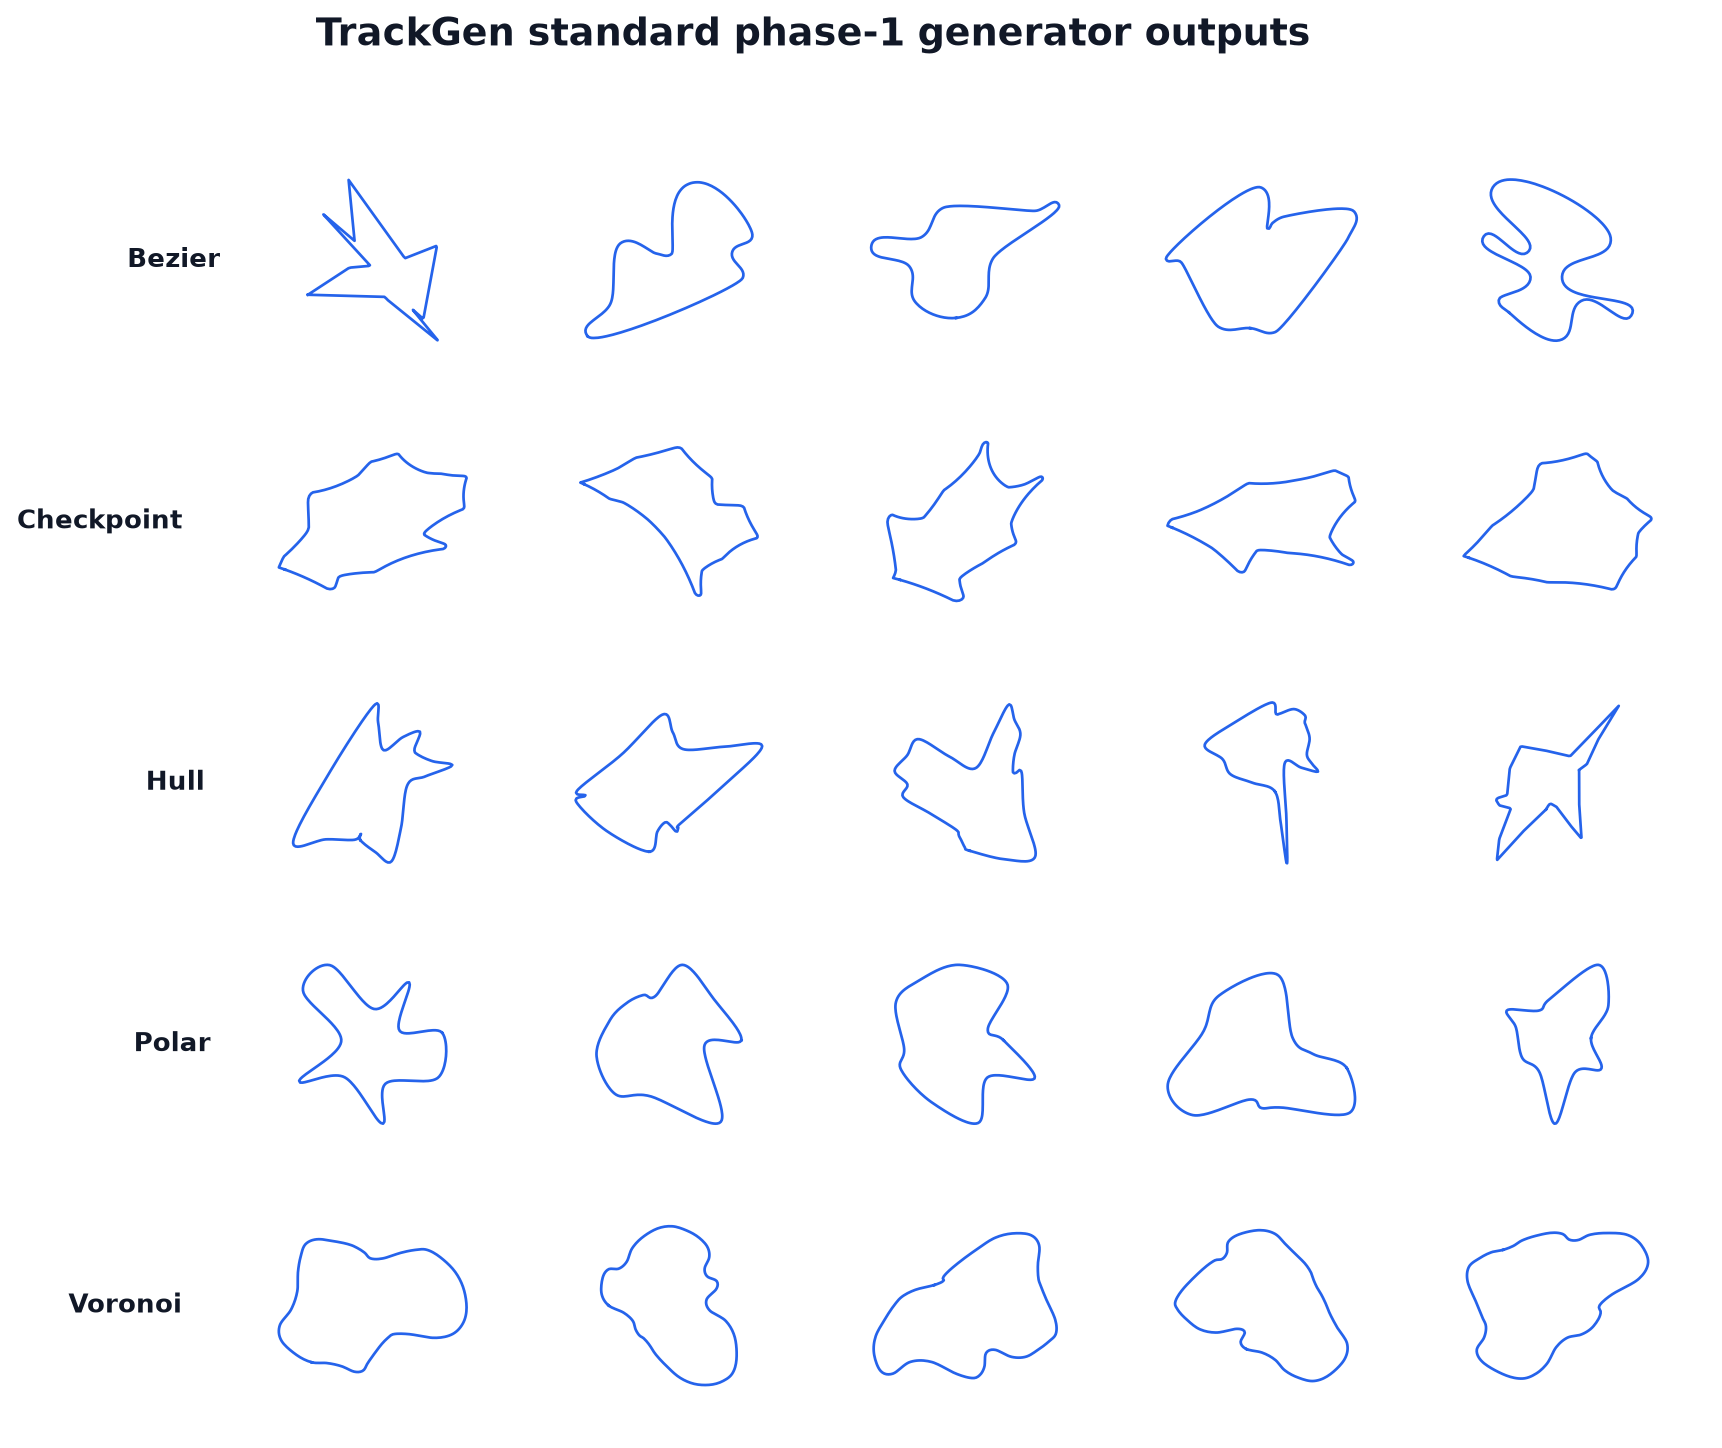
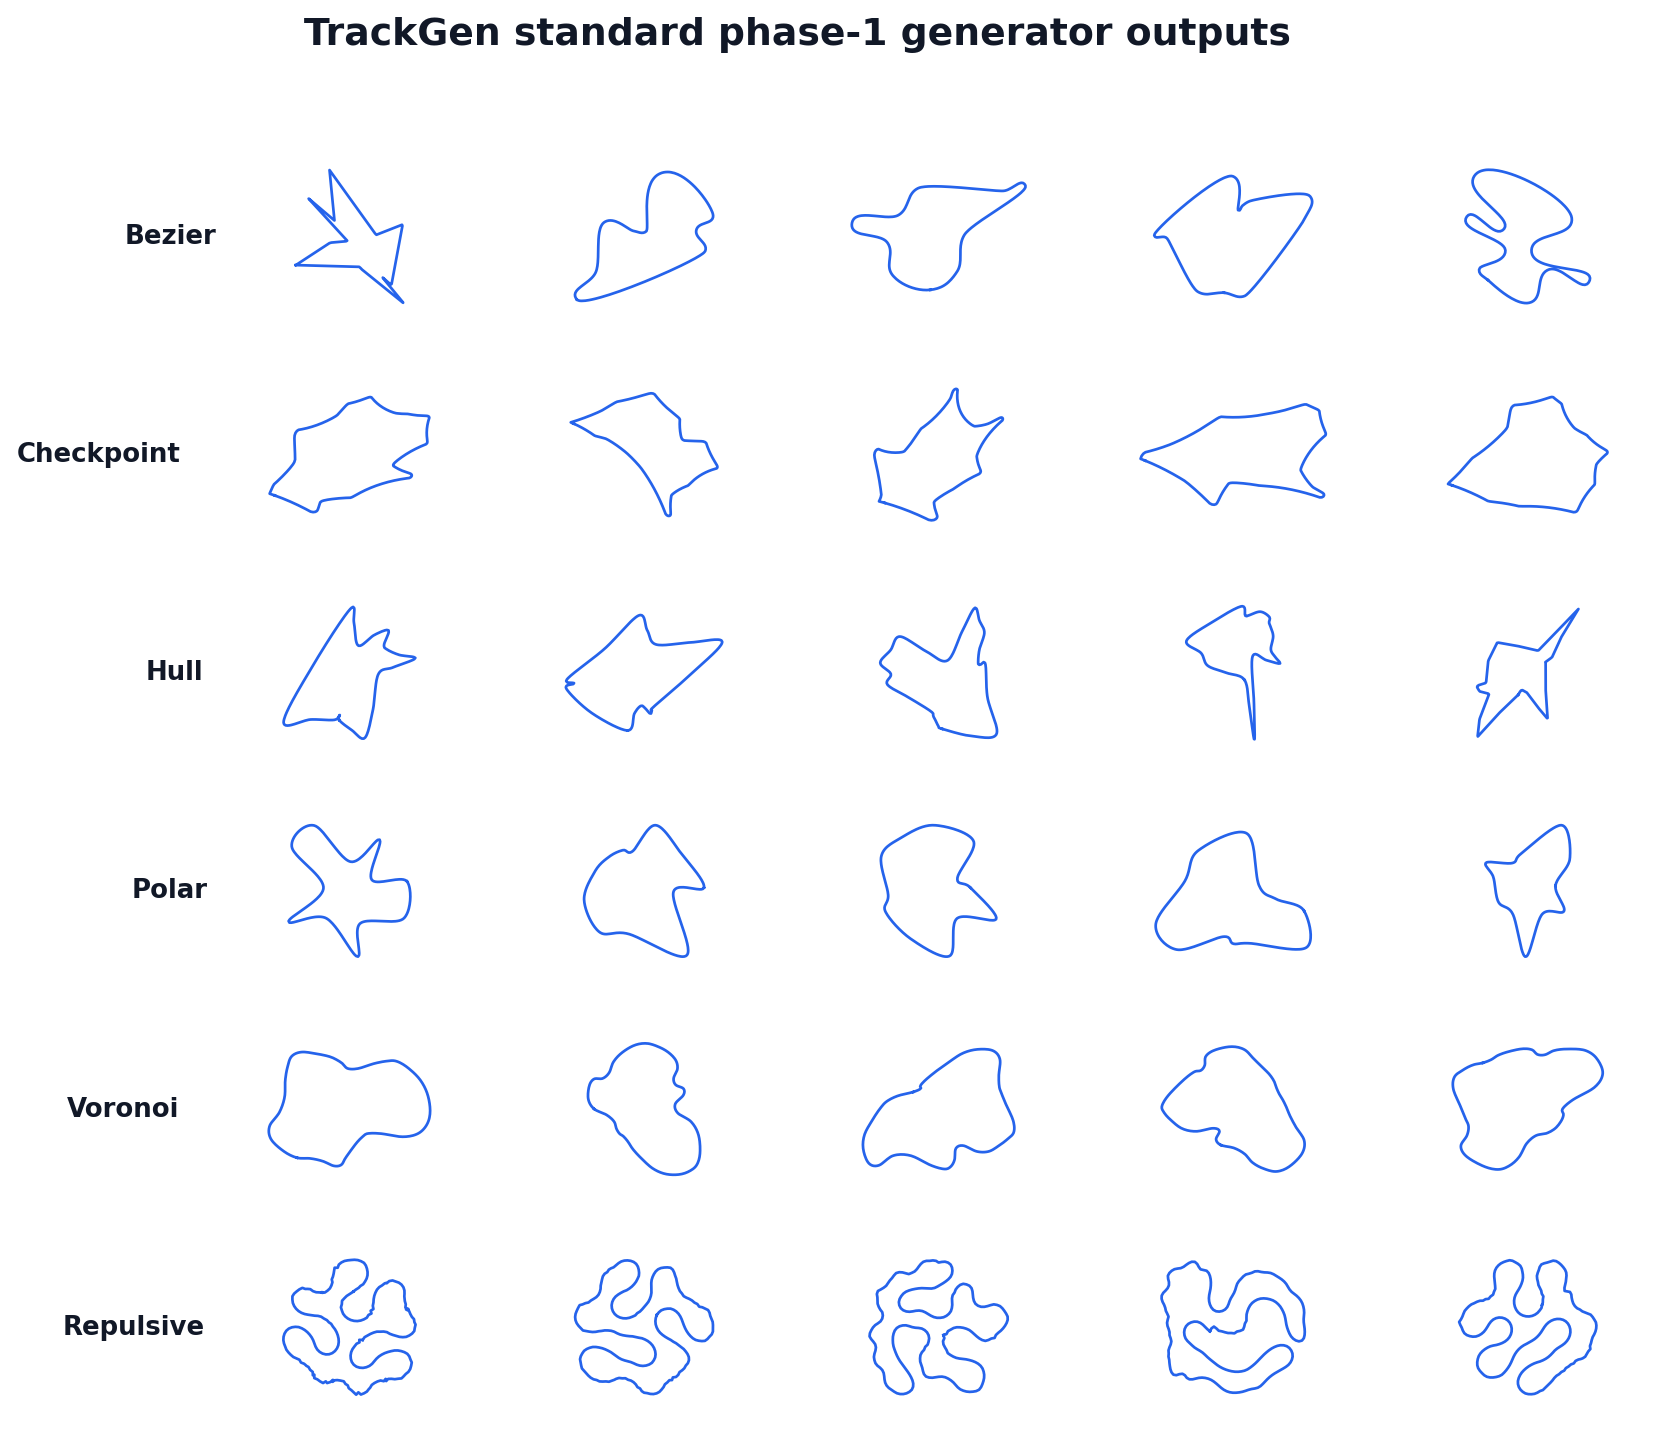
docs(readme): repulsive in feature table + gallery assets

diff --git a/viz/render_readme_assets.py b/viz/render_readme_assets.py
@@ -30,8 +30,11 @@ GENERATORS = [
     ("hull", "Hull"),
     ("polar", "Polar"),
     ("voronoi", "Voronoi"),
+    ("repulsive", "Repulsive"),
 ]
 
+# GateGenerator does not register "repulsive" (it is not a gate-sequence generator), so the
+# gate-asset strip stays at the original five.
 GATE_GENERATORS = [
     ("bezier", "Bezier"),
     ("checkpoint", "Checkpoint"),

diff --git a/tests/test_readme_assets.py b/tests/test_readme_assets.py
@@ -21,7 +21,7 @@ def test_render_generator_panels_writes_pngs(tmp_path):
     names = {p.name for p in paths}
     assert names == {
         "generator-bezier.png", "generator-checkpoint.png", "generator-hull.png",
-        "generator-polar.png", "generator-voronoi.png",
+        "generator-polar.png", "generator-voronoi.png", "generator-repulsive.png",
     }
     for p in paths:
         assert p.exists() and p.stat().st_size > 1000

diff --git a/docs/contributing/rendering-assets.rst b/docs/contributing/rendering-assets.rst
@@ -30,8 +30,8 @@ The figures it produces are:
    * - File
      - Contents
    * - ``docs/assets/readme-generator-grid.png``
-     - Five representative raw phase-1 centerlines from each of the five
-       standard generators (25 panels total), rendered at fixed seeds.
+     - Five representative raw phase-1 centerlines from each of the six
+       standard generators (30 panels total), rendered at fixed seeds.
    * - ``docs/assets/readme-pipeline-stages.png``
      - A single Bezier sample shown at four pipeline stages: Phase 1 raw
        centerline, constant-spacing resample, XPBD-relaxed band, and the final
@@ -40,13 +40,15 @@ The figures it produces are:
      - One representative phase-1 centerline per standard generator in a
        single horizontal strip.
    * - ``docs/assets/readme-gate-strip.png``
-     - The phase-2 gate collision solve illustrated for each generator: raw
+     - The phase-2 gate collision solve illustrated for each **gate** generator
+       (``bezier``, ``checkpoint``, ``hull``, ``polar``, ``voronoi`` — ``repulsive``
+       is not a registered gate generator, so it is not in this strip): raw
        anchors (top row) and separated gates with tangent frames and gate-width
        bars (bottom row).
-   * - ``docs/assets/generator-<name>.png`` (five files)
+   * - ``docs/assets/generator-<name>.png`` (six files)
      - Per-generator panel showing five representative raw phase-1 outputs.
        One file per standard generator (``bezier``, ``checkpoint``, ``hull``,
-       ``polar``, ``voronoi``).
+       ``polar``, ``voronoi``, ``repulsive``).
 
 .. warning::
 